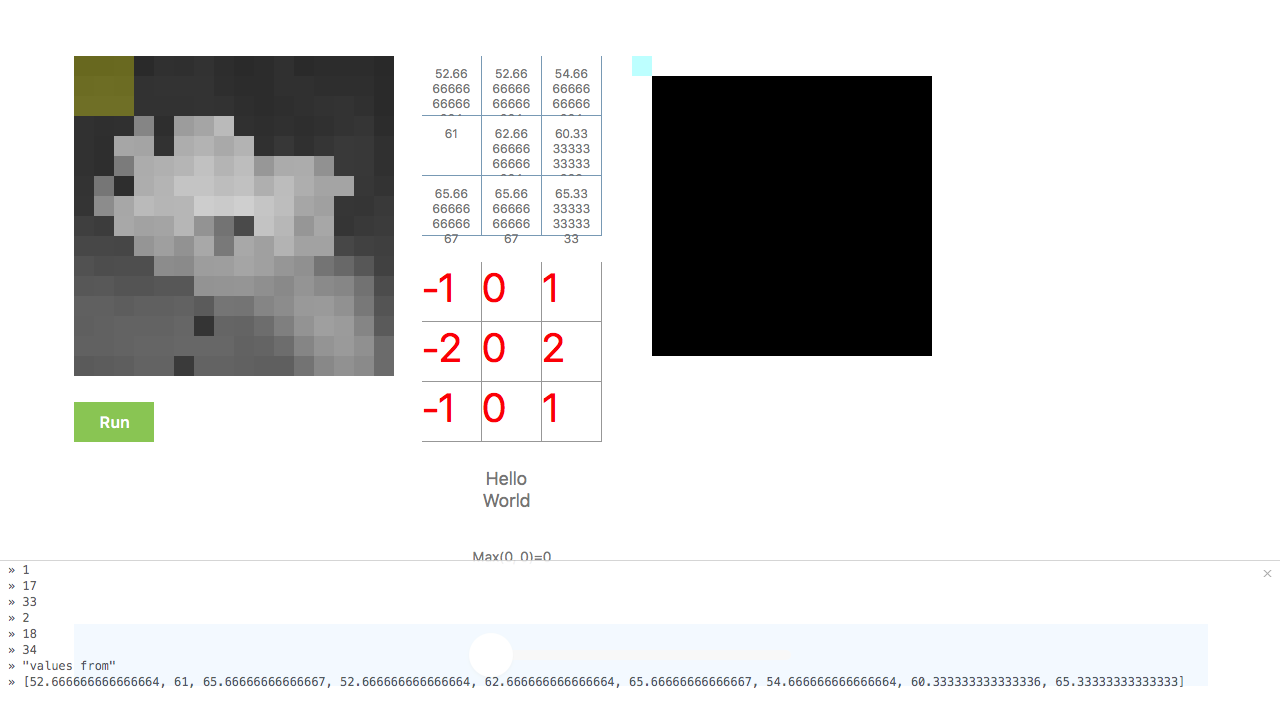
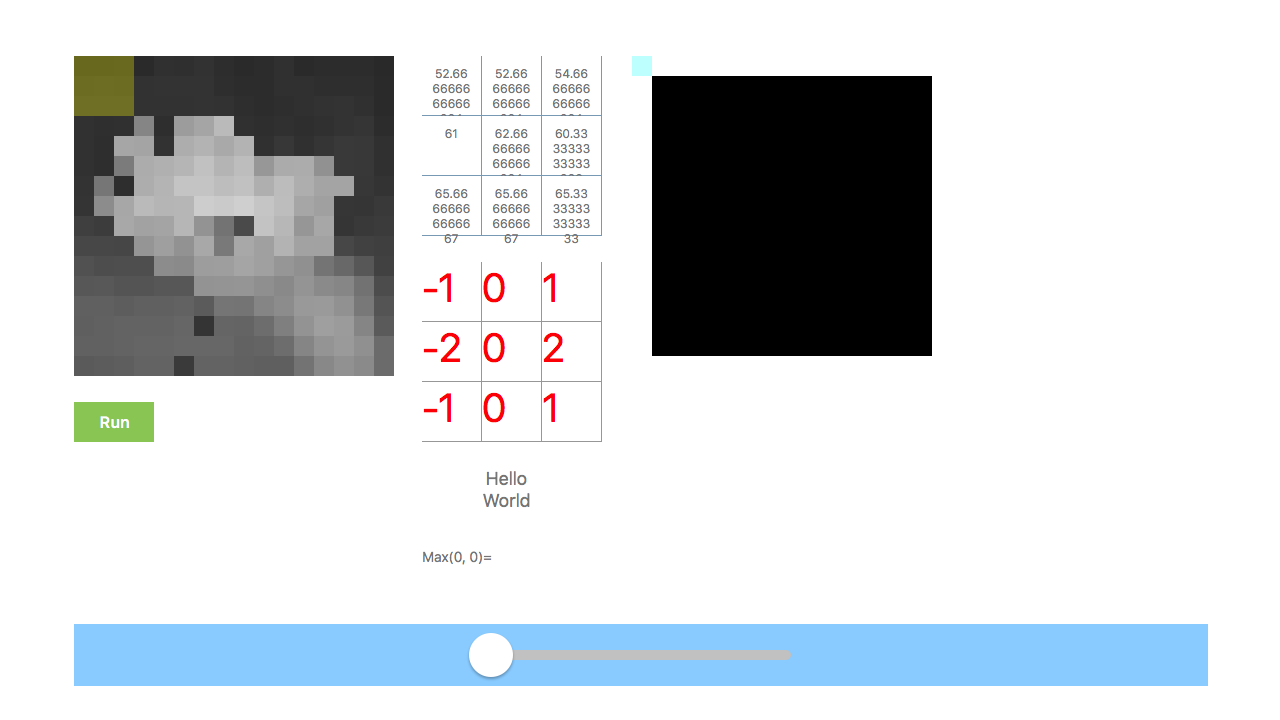
added a pixel display in the activation functiion to be animated into the final output

Changed region(s): [[0.0, 0.7944, 0.9688, 0.9778], [0.3125, 0.7639, 0.4375, 0.7944]]

diff --git a/ImageProcessingViz.framer/framer/framer.modules.js b/ImageProcessingViz.framer/framer/framer.modules.js
@@ -9,4 +9,4 @@ exports.myArray = [1, 2, 3];
 
 
 },{}]},{},[])
[2 lines of base64/hex data omitted]

diff --git a/ImageProcessingViz.framer/.viewer.html b/ImageProcessingViz.framer/.viewer.html
@@ -30,7 +30,7 @@
 		<script src="framer/coffee-script.js"></script>
 		<script src="framer/framer.js?nocache=d302bd360663dc146bf5d921e2dd228d"></script>
 		<script src="framer/framer.generated.js?nocache=6debf6c3cffde1c77ee06bac85b2c882"></script>
-		<script src="framer/framer.modules.js?nocache=4f42db61b54b28c78b7504b95c69a0dc"></script>
+		<script src="framer/framer.modules.js?nocache=16ddf72fafc6eb6c415ccacc0f41eb4b"></script>
 		<script src=""></script>
 		<script src="framer/framer.init.js"></script>
 
